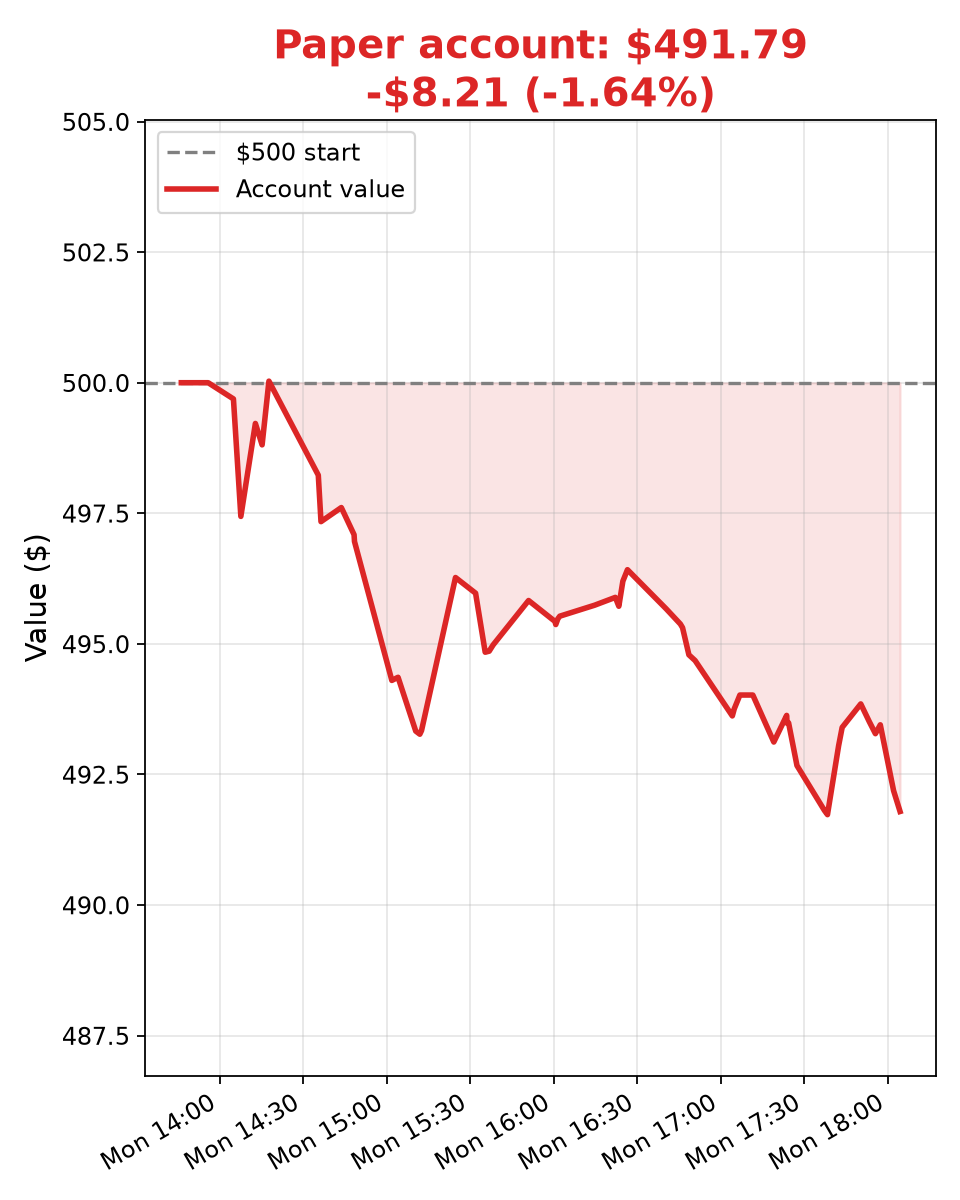
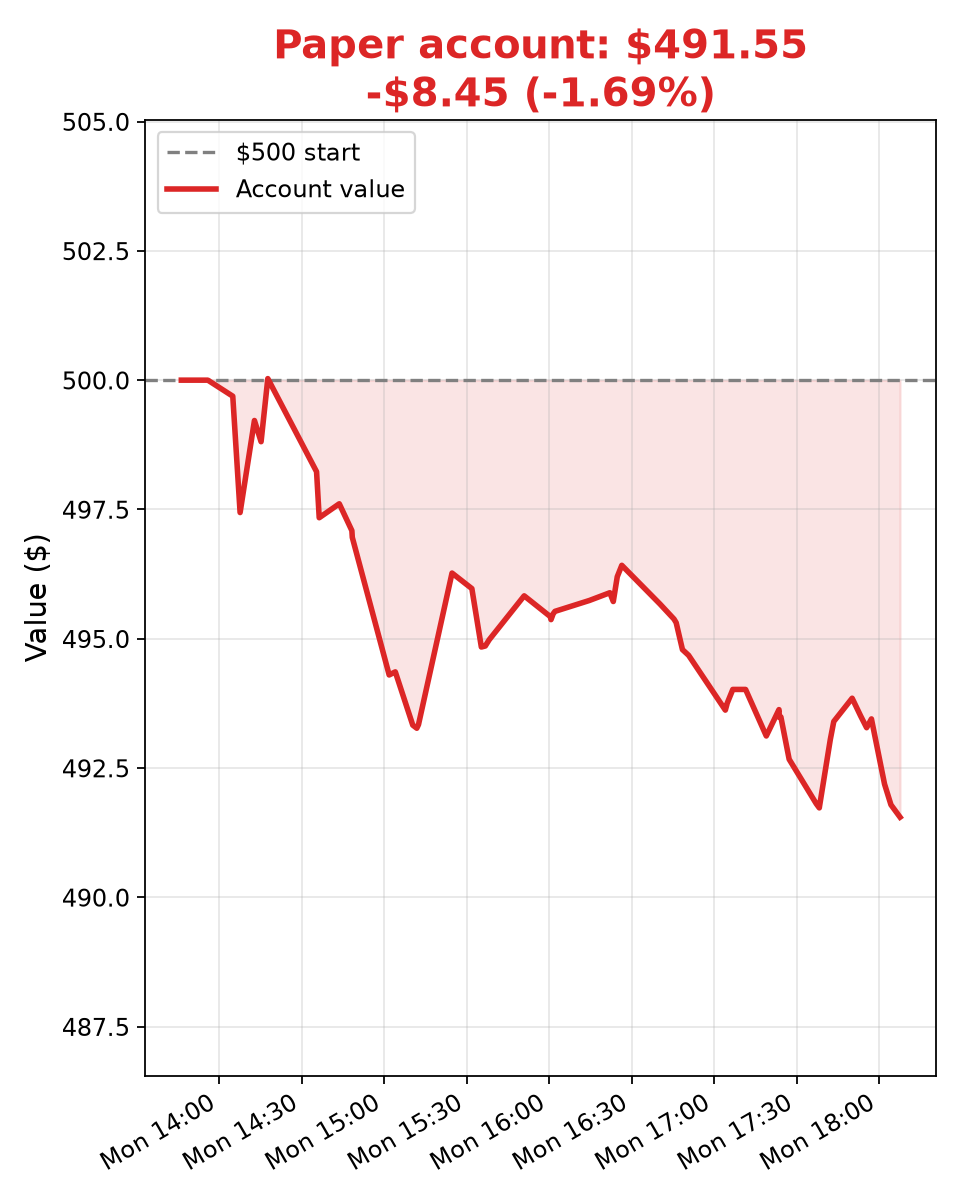
Update 2026-10-12T18:07:50Z

diff --git a/ledger.md b/ledger.md
@@ -92,3 +92,4 @@
 - 2026-10-12T17:57:14Z — total $493.45, cash $98.62 (Bot2 mark, no trade; FRO 58.685, DHT 25.885, ASTS 52.92 marked; no stops/targets hit — tankers holding bounce off 17:37 lows under lunch coil; ASTS soft under entry, ~0.15 above LOD 52.77, stop 52.40 ~1.0% away)
 - 2026-10-12T18:02:00Z — total $492.19, cash $98.62 (Jr mark, no trade; FRO 58.55, DHT 25.805, ASTS 52.67 marked; no stops/targets hit — ASTS broke LOD 52.77 on an 87k bar (new LOD 52.618), stop 52.40 ~0.5% away)
 - 2026-10-12T18:04:20Z — total $491.79, cash $98.62 (Bot1 mark, no trade; FRO 58.52, DHT 25.765, ASTS 52.61 marked; no stops/targets hit — ASTS new LOD 52.56, stop 52.40 ~0.4% away)
+- 2026-10-12T18:07:39Z — total $491.55, cash $98.62 (Bot4 mark, no trade; FRO 58.50, DHT 25.73, ASTS 52.61 marked; no stops/targets hit — ASTS new LOD 52.47 at 18:04, stop 52.40 only ~0.4% from last, 0.07 under LOD; tankers drifting near afternoon lows)
